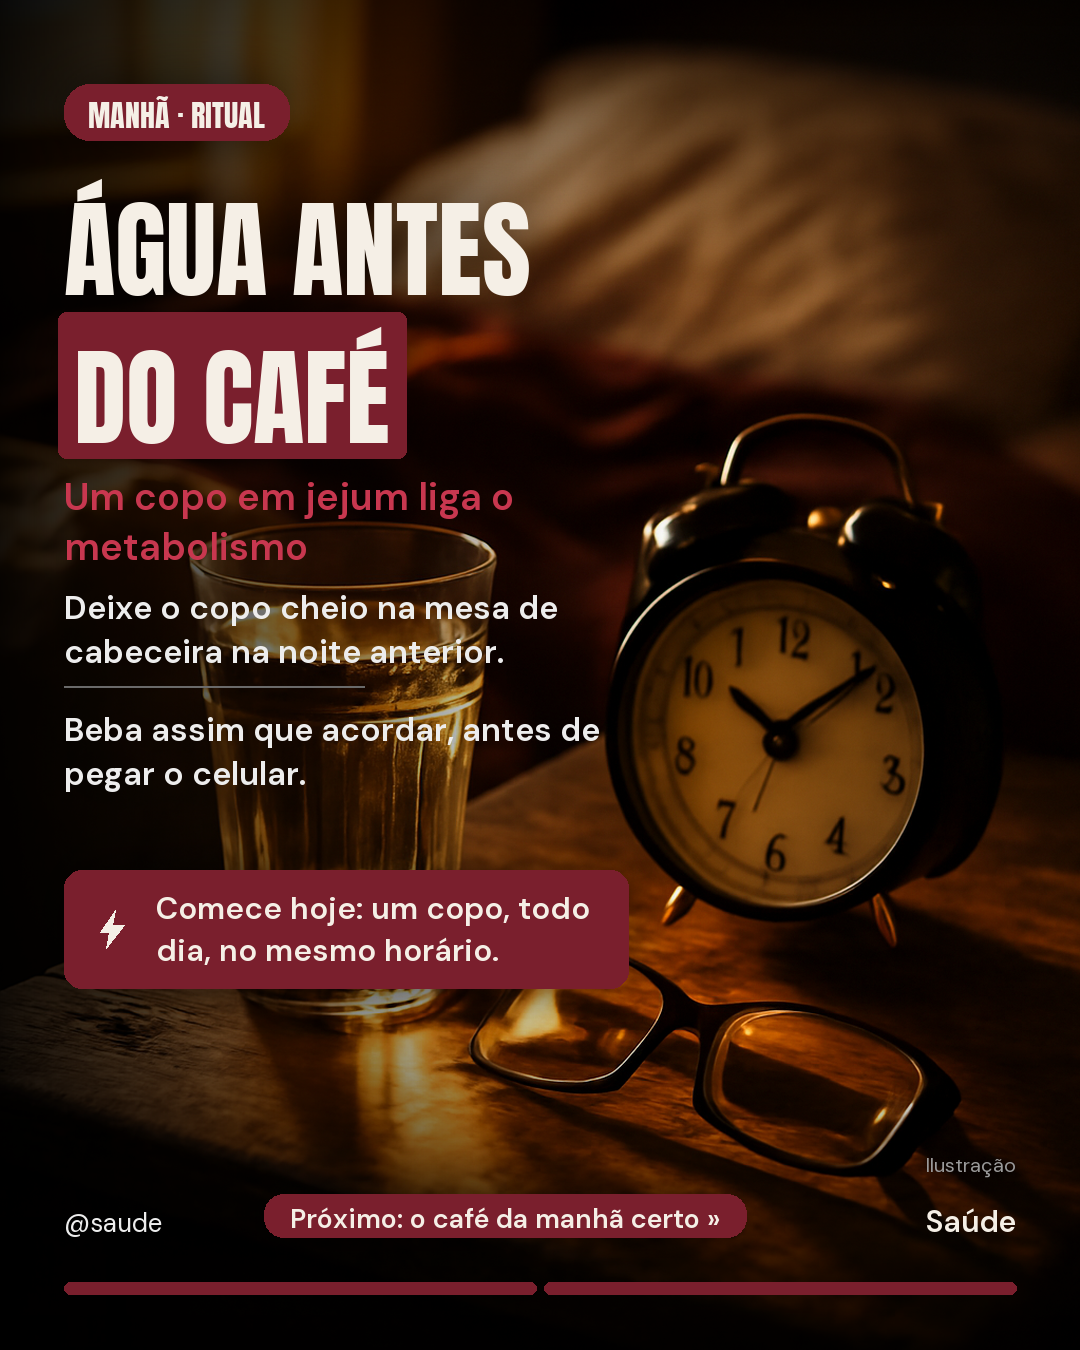
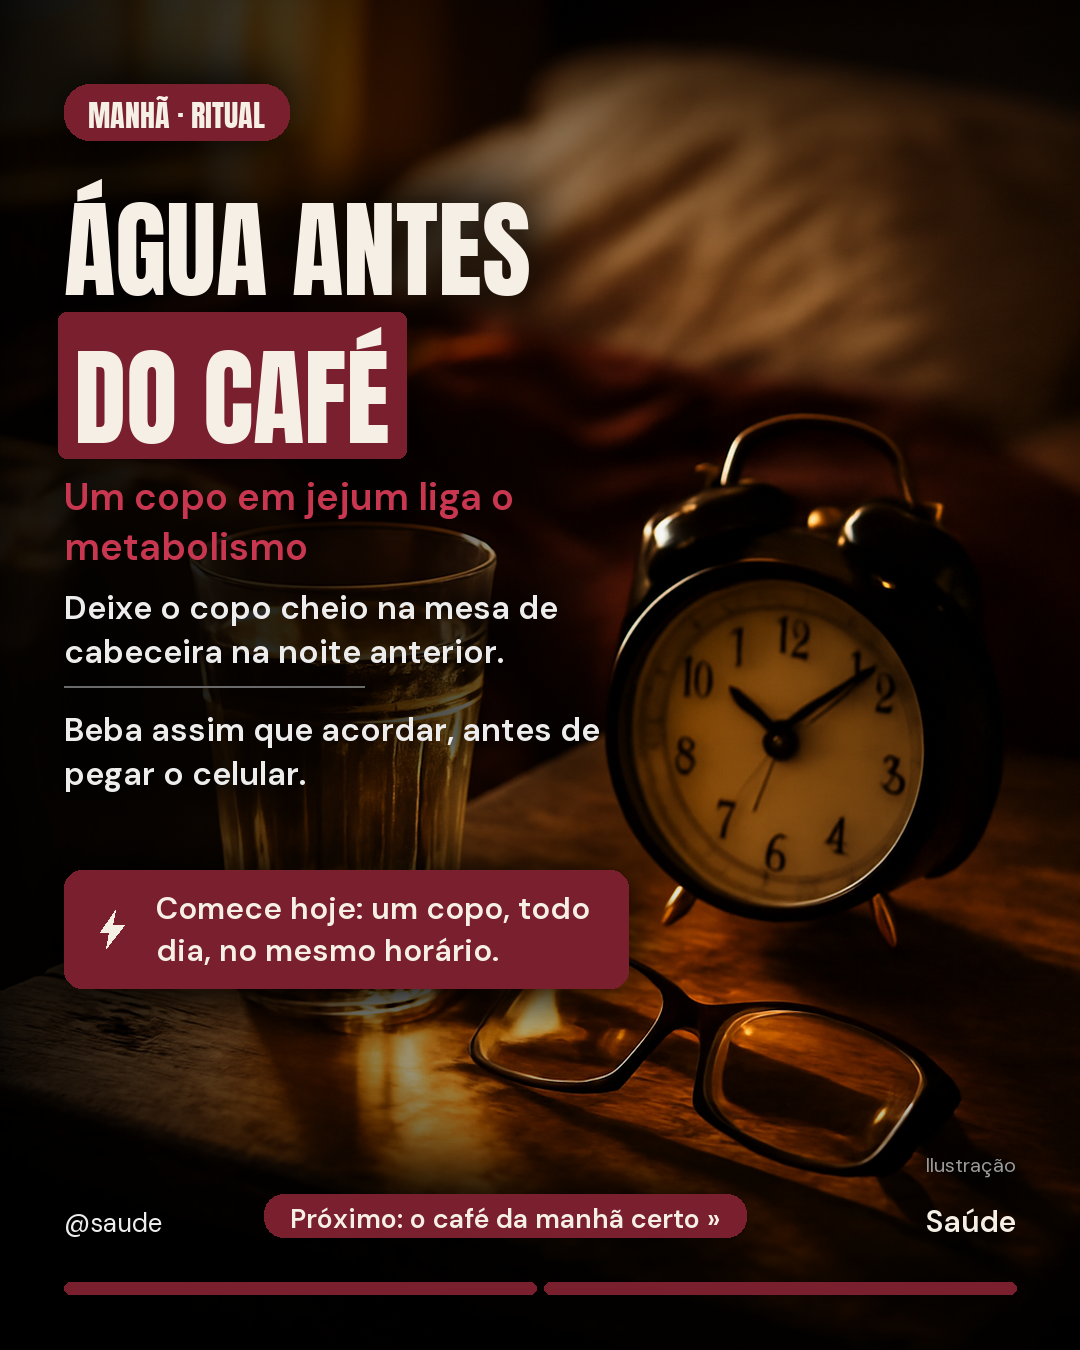
Sombra do Modelo 2 mais forte e configuravel (sombra_texto no json)
A versao anterior era sutil demais e quase nao aparecia sobre areas claras
da imagem. Agora a sombra dilata alem das letras formando um painel
continuo, com intensidade ajustavel: sombra_texto 1.0 padrao, maior =
mais escura, 0 = desligada.

diff --git a/.claude/skills/carrossel-instagram/scripts/montar_slide.py b/.claude/skills/carrossel-instagram/scripts/montar_slide.py
@@ -16,7 +16,9 @@ MODELO 2 (Imersivo, full-bleed, texto a esquerda) — campos por lamina:
   lista [[nome, desc, url], ...] (recap), imagem (fundo inteiro)
 
 Json comum: tema, handle, marca, saida, paleta {fundo, titulo, destaque,
-destaque_claro, texto, nota}. Caminhos relativos ao proprio json.
+destaque_claro, texto, nota}, sombra_texto (Modelo 2: intensidade da sombra atras
+do texto; padrao 1.0, ex.: 1.3 = mais escura, 0.6 = mais sutil, 0 = sem sombra).
+Caminhos relativos ao proprio json.
 
 Limites e regras:
 - caixa.passos: no maximo 2 linhas renderizadas; caixa.nota: 1 linha (o excedente e cortado).
@@ -493,10 +495,16 @@ def montar_m2(spec, pal, meta, dir_base, idx, total):
             cor = pal["destaque"] if i <= idx else "#4a4a4a"
             d.rounded_rectangle([x0, y_b, x0 + seg, y_b + 12], radius=6, fill=cor)
 
-    # sombra sutil seguindo o contorno do conteudo + conteudo por cima
-    sombra = overlay.split()[3].filter(ImageFilter.GaussianBlur(26))
-    sombra = sombra.point(lambda a: min(120, int(a * 0.65)))
-    canvas.paste(Image.new("RGB", (W, H), "#000000"), (0, 0), sombra)
+    # sombra seguindo o contorno do conteudo: dilata alem das letras (painel
+    # continuo atras do bloco de texto), borra e escurece — legivel sem apagar a
+    # cena. Intensidade ajustavel via "sombra_texto" no json (padrao 1.0).
+    forca = float(meta.get("sombra_texto", 1.0))
+    if forca > 0:
+        teto = min(230, int(175 * forca))
+        sombra = overlay.split()[3].filter(ImageFilter.MaxFilter(21))
+        sombra = sombra.filter(ImageFilter.GaussianBlur(30))
+        sombra = sombra.point(lambda a: min(teto, int(a * 1.1 * forca)))
+        canvas.paste(Image.new("RGB", (W, H), "#000000"), (0, 0), sombra)
     canvas.paste(overlay, (0, 0), overlay)
     return canvas
 
